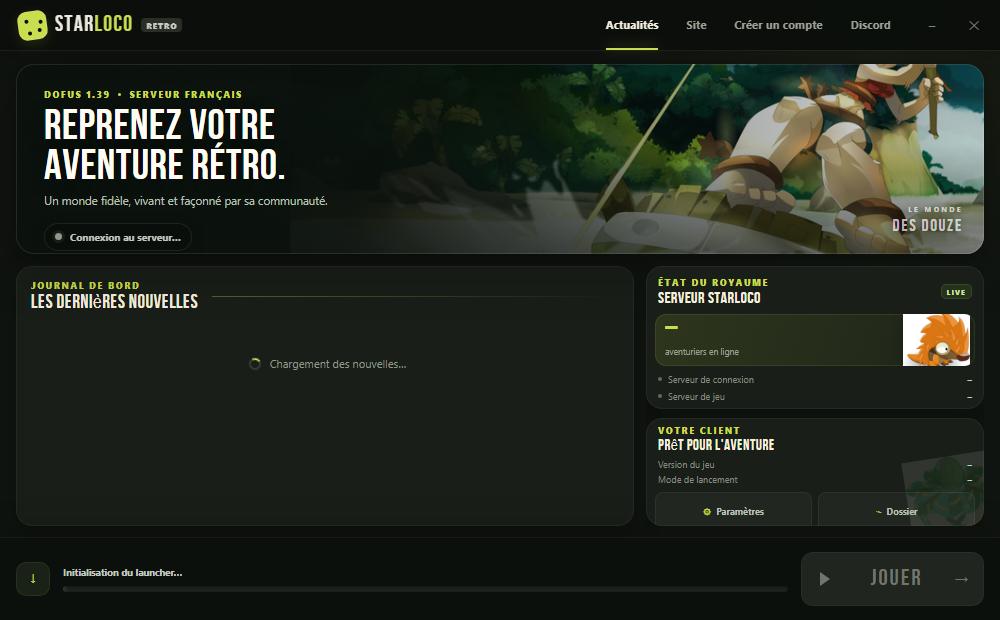
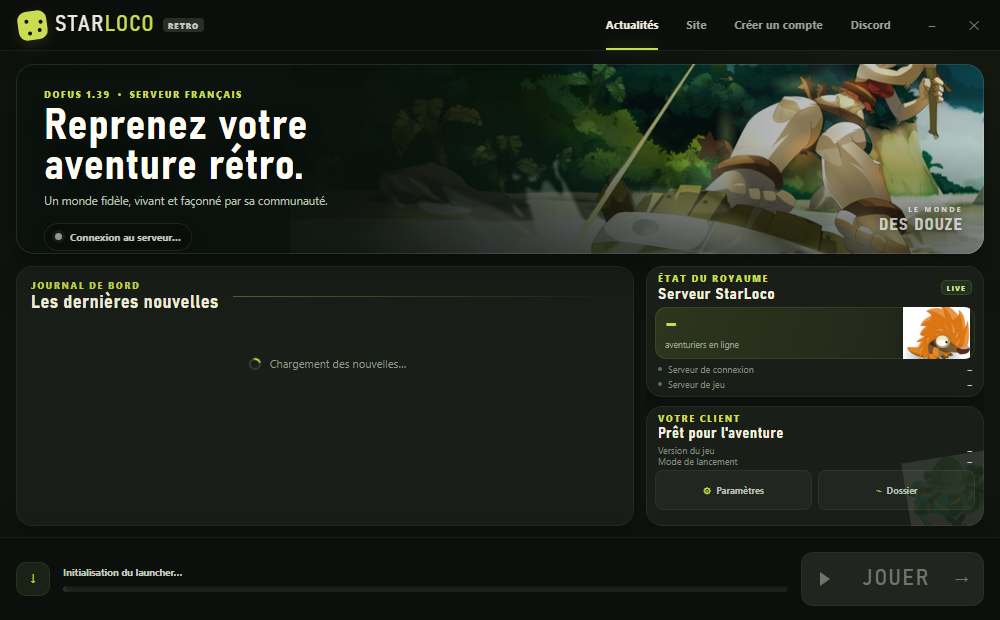
Refactor styles to use variable font family and update font weights; add .gitignore for files

diff --git a/launcher/src/renderer/styles.css b/launcher/src/renderer/styles.css
@@ -1,10 +1,5 @@
-@font-face {
-  font-family: "Bebas Neue";
-  src: url("assets/BebasNeue.woff") format("woff");
-  font-display: swap;
-}
-
 :root {
+  --font-display: "Bahnschrift SemiCondensed", "Bahnschrift", "Arial Narrow", "Segoe UI", sans-serif;
   --ink: #0b0e0b;
   --canvas: #101410;
   --canvas-soft: #161b15;
@@ -99,7 +94,7 @@ select:focus-visible {
 .brand-mark i::after { transform: translate(-6px, 5px); }
 
 .brand-name {
-  font-family: "Bebas Neue", "Arial Narrow", sans-serif;
+  font-family: var(--font-display);
   font-size: 22px;
   line-height: 1;
   letter-spacing: 1.4px;
@@ -262,9 +257,9 @@ select:focus-visible {
 .hero h1 {
   margin: 6px 0 4px;
   color: #fffdf4;
-  font-family: "Bebas Neue", "Arial Narrow", sans-serif;
+  font-family: var(--font-display);
   font-size: 43px;
-  font-weight: 400;
+  font-weight: 650;
   line-height: .92;
   letter-spacing: .7px;
   text-wrap: balance;
@@ -317,7 +312,7 @@ select:focus-visible {
 }
 
 .hero-signature span { font-size: 7px; font-weight: 700; letter-spacing: 2.4px; }
-.hero-signature strong { font-family: "Bebas Neue", sans-serif; font-size: 17px; font-weight: 400; letter-spacing: 1.7px; }
+.hero-signature strong { font-family: var(--font-display); font-size: 17px; font-weight: 650; letter-spacing: 1.3px; }
 
 .content-grid {
   display: grid;
@@ -346,9 +341,9 @@ select:focus-visible {
 .panel-heading h2 {
   margin: 1px 0 0;
   color: var(--cream);
-  font-family: "Bebas Neue", "Arial Narrow", sans-serif;
+  font-family: var(--font-display);
   font-size: 19px;
-  font-weight: 400;
+  font-weight: 650;
   line-height: 1.1;
   letter-spacing: .5px;
   text-wrap: balance;
@@ -411,7 +406,7 @@ select:focus-visible {
   color: var(--olive-bright);
   background: #262e21;
   border-radius: 8px;
-  font-family: "Bebas Neue", sans-serif;
+  font-family: var(--font-display);
   font-size: 15px;
   font-variant-numeric: tabular-nums;
   box-shadow: 0 0 0 1px rgba(202, 221, 81, .13) inset;
@@ -474,7 +469,7 @@ select:focus-visible {
 
 .side {
   display: grid;
-  grid-template-rows: 1.14fr .86fr;
+  grid-template-rows: minmax(0, 1fr) 120px;
   gap: 9px;
   min-height: 0;
   overflow-y: auto;
@@ -482,6 +477,8 @@ select:focus-visible {
 
 .server-card,
 .client-card { position: relative; min-height: 0; overflow: hidden; }
+
+.server-card .panel-heading { padding-top: 6px; padding-bottom: 3px; }
 
 .live-badge {
   padding: 3px 6px 2px;
@@ -498,8 +495,8 @@ select:focus-visible {
   position: relative;
   display: flex;
   align-items: center;
-  min-height: 48px;
-  margin: 0 9px 5px;
+  min-height: 44px;
+  margin: 0 9px 3px;
   padding: 6px 10px;
   overflow: hidden;
   background: linear-gradient(105deg, rgba(169, 189, 59, .14), rgba(169, 189, 59, .035));
@@ -510,9 +507,9 @@ select:focus-visible {
 .players-spotlight strong {
   display: block;
   color: var(--olive-bright);
-  font-family: "Bebas Neue", sans-serif;
+  font-family: var(--font-display);
   font-size: 25px;
-  font-weight: 400;
+  font-weight: 650;
   line-height: .85;
   font-variant-numeric: tabular-nums;
 }
@@ -544,8 +541,8 @@ select:focus-visible {
 .kv b.up { color: var(--ok); }
 .kv b.down { color: var(--down); }
 
-.server-kv { padding: 0 12px 8px; }
-.server-kv li { padding: 2px 0; }
+.server-kv { padding: 0 12px 6px; }
+.server-kv li { padding: 1px 0; }
 
 .server-kv span { display: flex; align-items: center; gap: 6px; }
 
@@ -569,8 +566,8 @@ select:focus-visible {
   filter: grayscale(.2);
 }
 
-.client-kv { padding: 0 12px 5px; }
-.client-kv li { padding: 1px 0; }
+.client-kv { padding: 0 12px 3px; }
+.client-kv li { padding: 0; line-height: 1.25; }
 
 .client-actions {
   display: grid;
@@ -701,7 +698,7 @@ select:focus-visible {
 }
 
 .play-label {
-  font-family: "Bebas Neue", "Arial Narrow", sans-serif;
+  font-family: var(--font-display);
   font-size: 23px;
   letter-spacing: 2px;
 }
@@ -755,9 +752,9 @@ select:focus-visible {
 .modal-titlebar h3 {
   margin: 2px 0 0;
   color: var(--cream);
-  font-family: "Bebas Neue", sans-serif;
+  font-family: var(--font-display);
   font-size: 25px;
-  font-weight: 400;
+  font-weight: 650;
   letter-spacing: .6px;
 }
 
